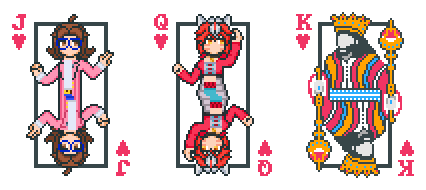
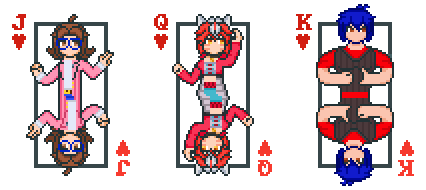
Update for Eclipse Noctis

diff --git a/README.md b/README.md
@@ -3,9 +3,10 @@ Adding spanish speaking Vtuber character face cards to the game.
 
 - [Chrome Cottontail](https://www.twitch.tv/chromevt) as ♠Spades Queen
 - [Sombra 7474](https://www.twitch.tv/sombra7474) as ♠Spades Jack
+- [SebasContre](https://www.twitch.tv/sebascontre) as ♥Clubs King
 - [Edomancer](https://www.twitch.tv/edomancer) as ♥Hearts Queen
 - [YopAlonso](https://www.twitch.tv/yopalonso) as ♥Hearts Jack
-- [SebasContre](https://www.twitch.tv/sebascontre) as ♣Clubs King
+- [Eclipse Noctis](https://www.twitch.tv/eclipsenoctis) as ♣Clubs King
 - [Zamcito](https://www.twitch.tv/zamcito) as ♣Clubs Jack
 - [Arisa Elizabeth](https://www.twitch.tv/arisaelizabeth) as ♦Diamonds Queen
 
